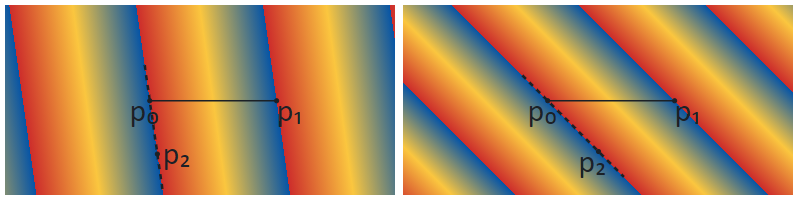
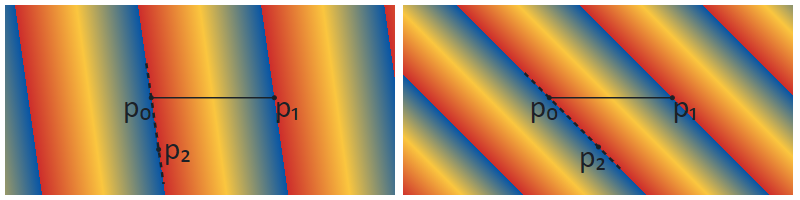
Update linear gradient images and text per PR comments

diff --git a/OFF_AMD2_WD.md b/OFF_AMD2_WD.md
@@ -304,11 +304,12 @@ side of the color line. That is, for each position on line p₀p₁, the line th
 passes through that position on line p₀p₁ and that is parallel to line p₀p₂ will
 have the color for that position on line p₀p₁.
 
-Points p₁ and p₂ shall not be the same as point p₀. 
+If either point p₁ or p₂ is the same as point p₀, the gradient is ill-formed and
+shall not be rendered. 
 
-If line p₀p₂ is parallel to line p₀p₁ (or the angle between them is near-zero
-for an implementation-defined threshold), then the gradient is ill-formed and
-shall not be rendered.
+If line p₀p₂ is parallel to line p₀p₁ (or near-parallel for an
+implementation-defined definition), then the gradient is ill-formed and shall
+not be rendered.
 
 NOTE: An implementation can derive a single vector, from p₀ to a point p₃, by
 computing the orthogonal projection of the vector from p₀ to p₁ onto a line
